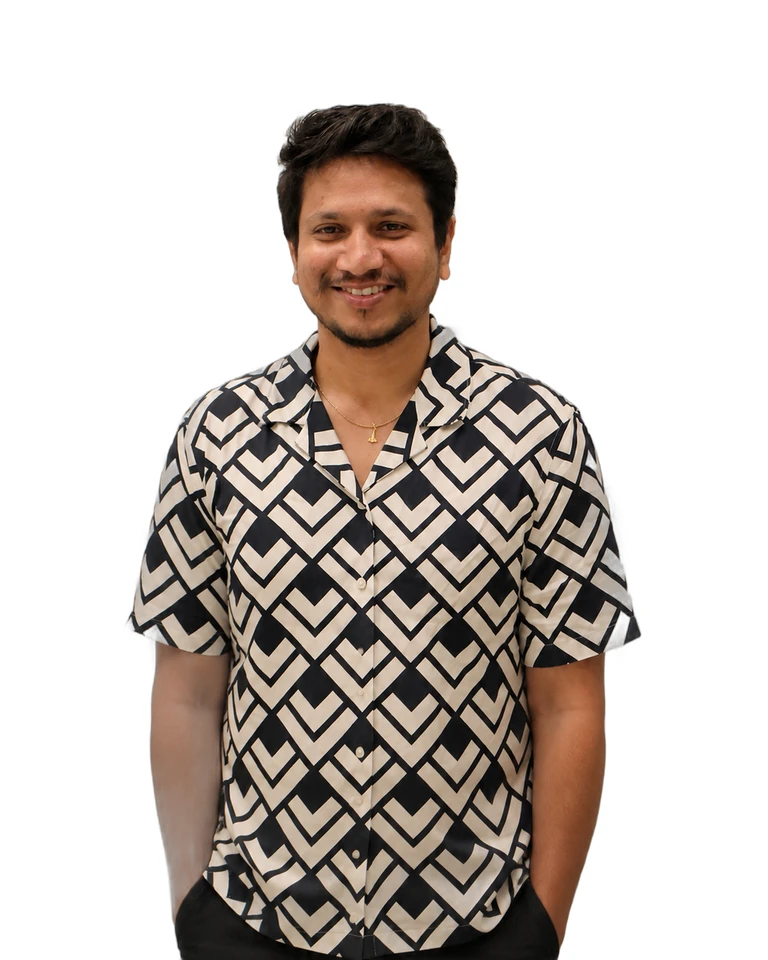
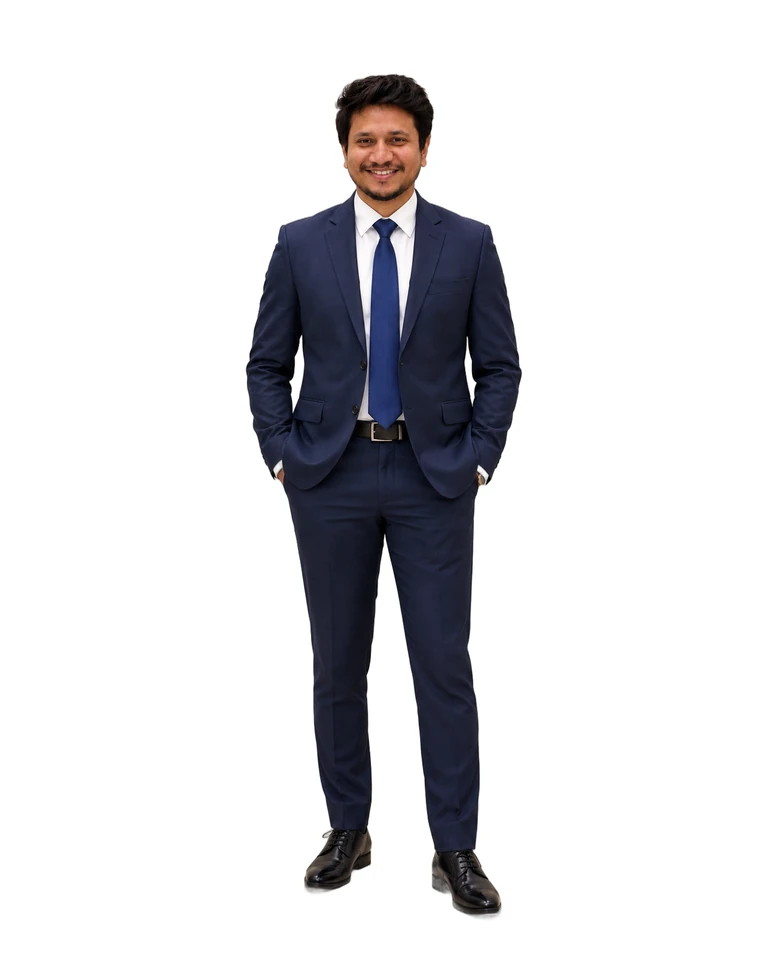
Use the suit photo for the hero and the headshot for the ID card
Claude-Session: https://claude.ai/code/session_017VF8AZKxawrKnKFhuAssYX

diff --git a/src/components/hero/Hero.tsx b/src/components/hero/Hero.tsx
@@ -184,7 +184,7 @@ export default function Hero({ hasVideo }: Props) {
         .frame{position:relative;height:min(90svh,1040px);aspect-ratio:768/960;max-width:100%}
         .frame::before{content:"";position:absolute;left:50%;top:38%;width:140%;height:70%;transform:translate(-50%,-50%);background:radial-gradient(ellipse at center,rgba(91,75,255,.22),rgba(255,107,74,.14) 45%,transparent 70%);filter:blur(30px);z-index:0;pointer-events:none}
         .media{width:100%;height:100%;object-fit:cover;mix-blend-mode:multiply;position:relative;z-index:1}
-        .still{animation:breathe 6s ease-in-out infinite;transform-origin:50% 100%;-webkit-mask-image:linear-gradient(to bottom,#000 84%,transparent 100%);mask-image:linear-gradient(to bottom,#000 84%,transparent 100%)}
+        .still{animation:breathe 6s ease-in-out infinite;transform-origin:50% 100%}
         .ground{position:absolute;left:50%;bottom:4%;width:46%;height:5%;transform:translateX(-50%);border-radius:50%;background:radial-gradient(ellipse at center,rgba(13,13,13,.16),rgba(13,13,13,0) 70%);z-index:0}
         .sound{position:absolute;right:calc(50% - min(45svh,520px) + 8px);bottom:28px;width:46px;height:46px;border-radius:50%;background:var(--grad);color:#fff;display:grid;place-items:center;z-index:3;transition:transform .5s var(--ease),background .4s var(--ease)}
         .sound:hover{transform:translateY(-2px)}
